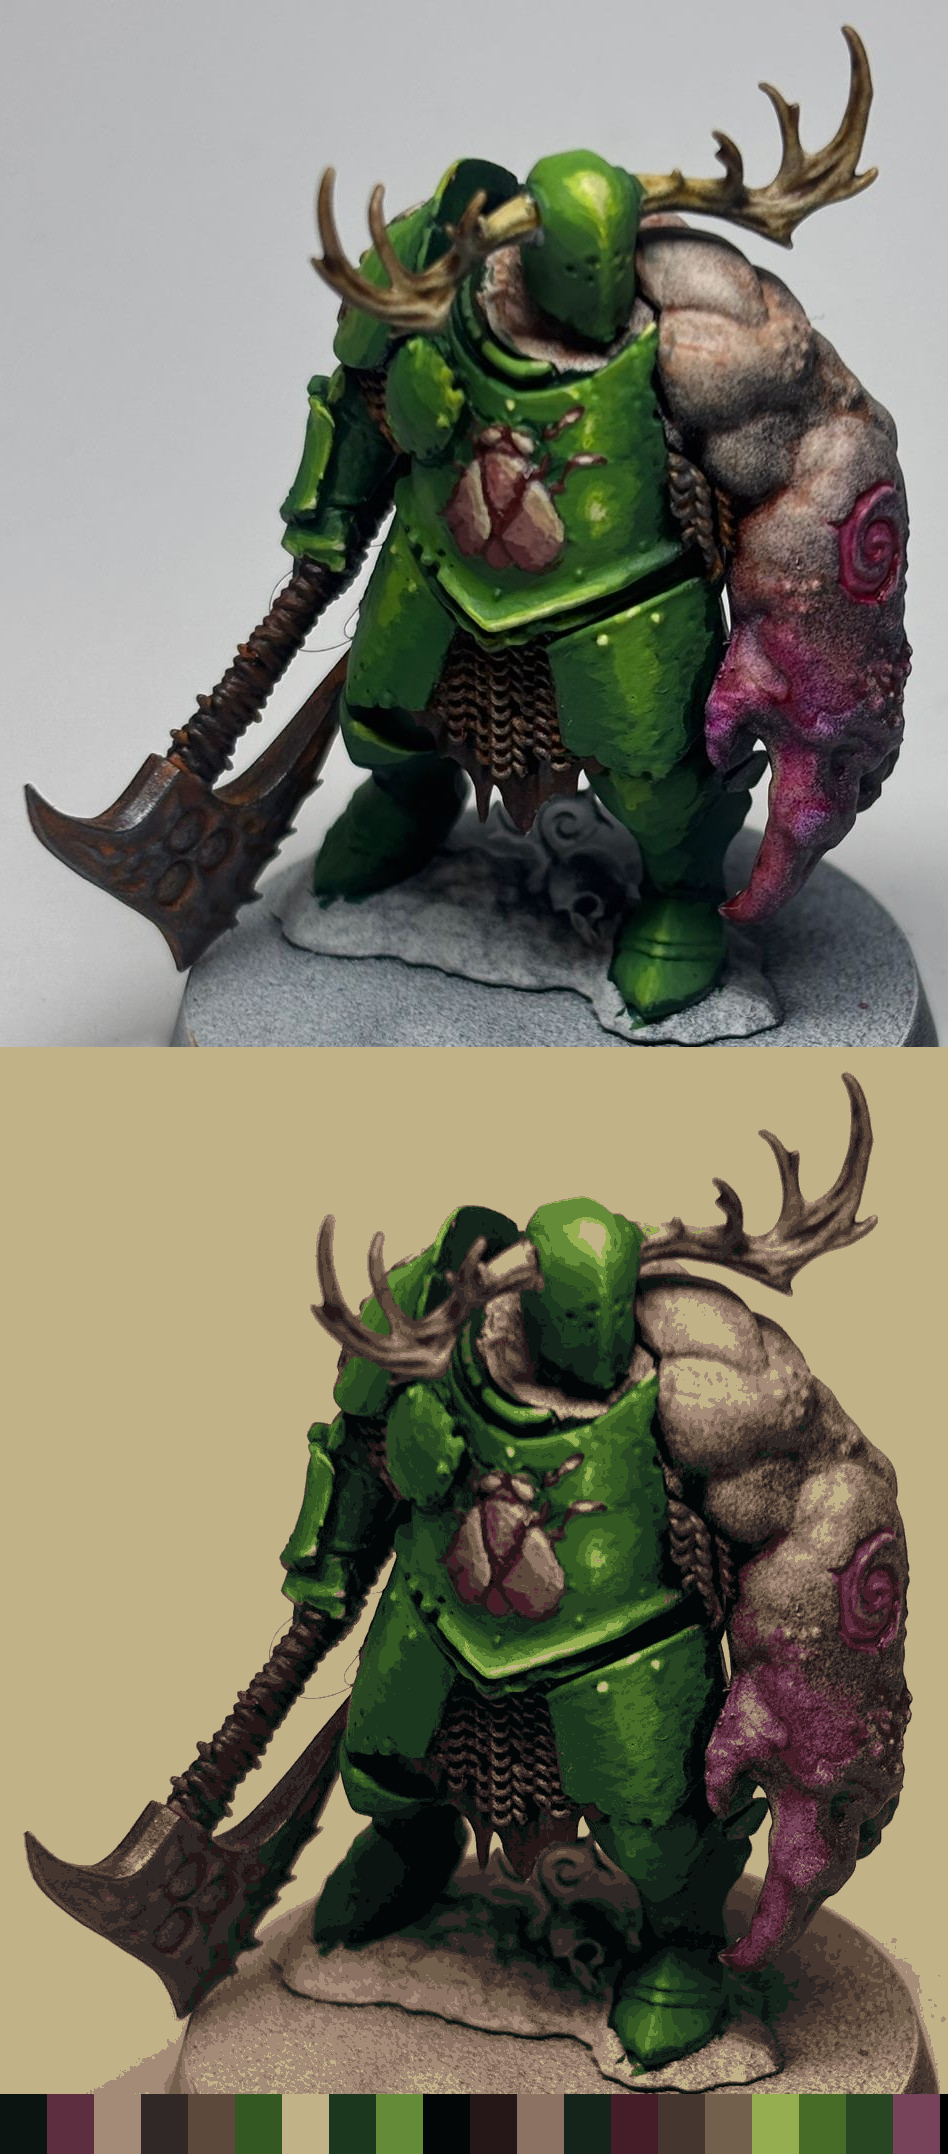
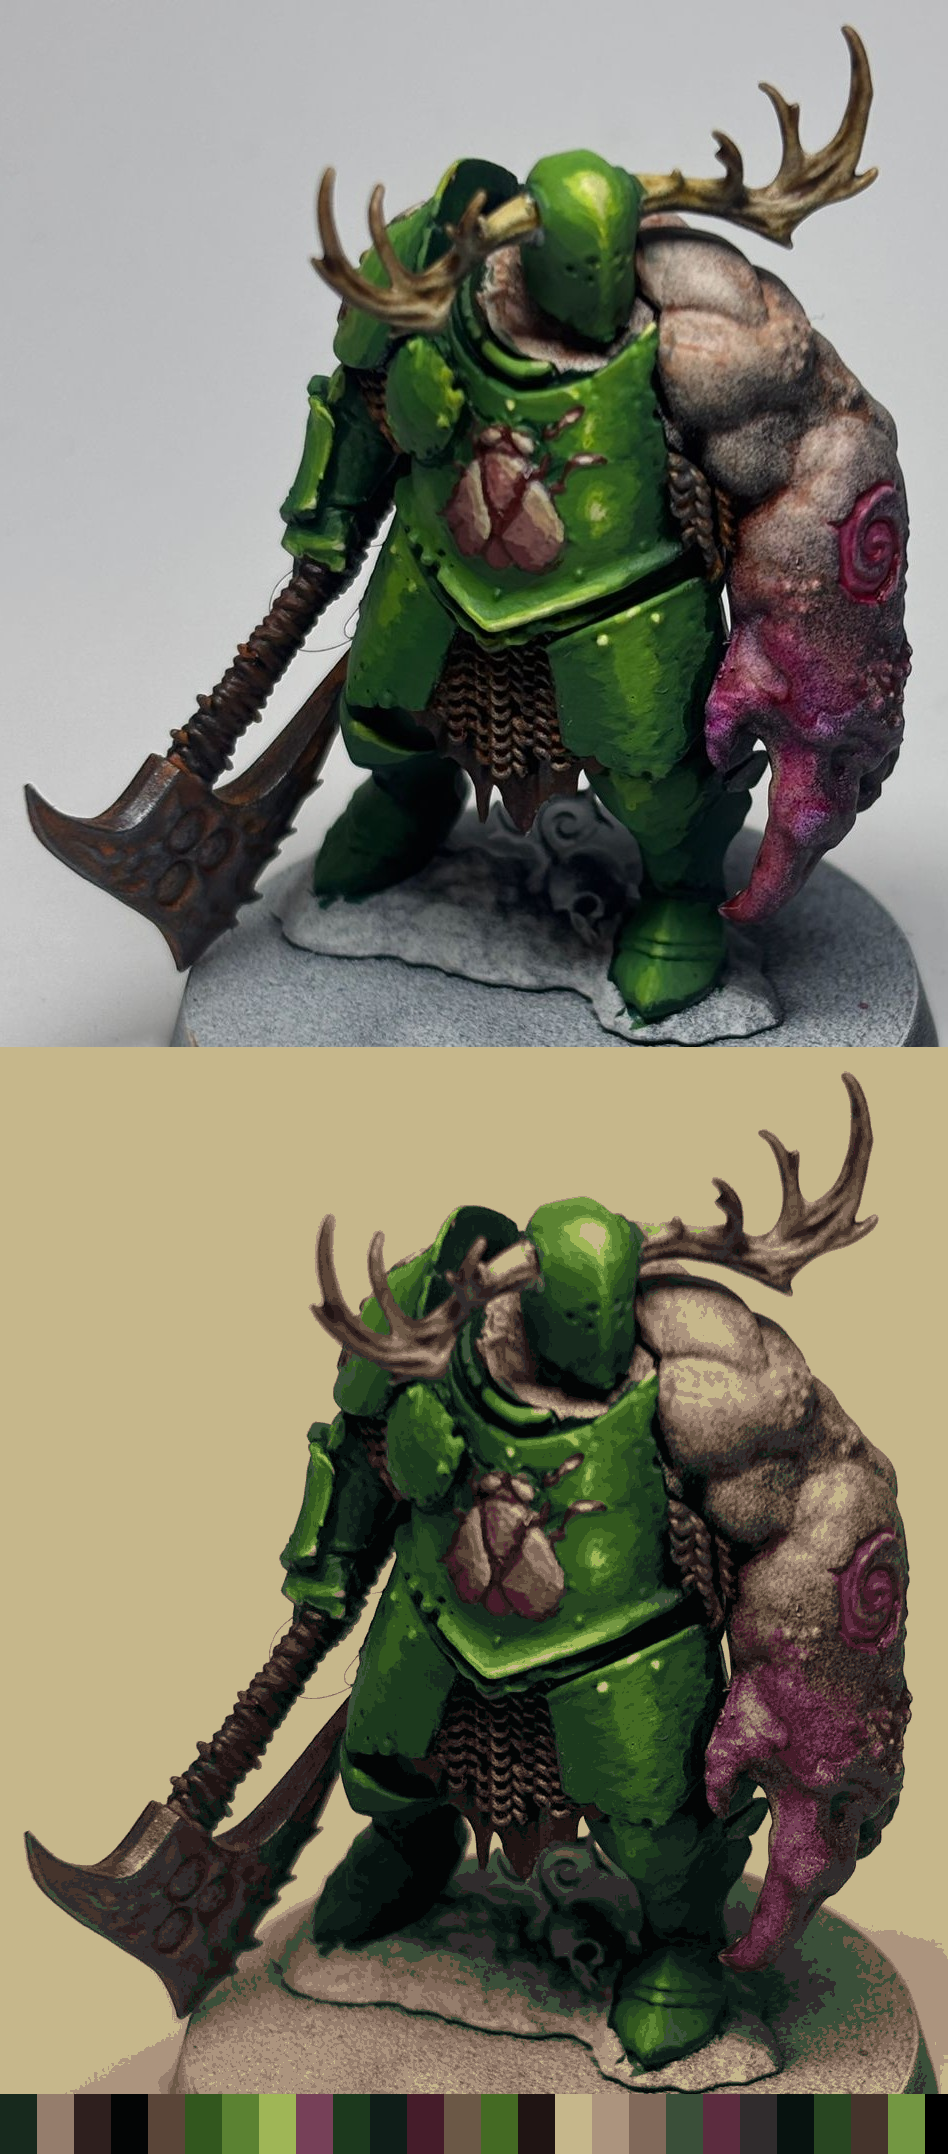
General code cleanup

diff --git a/colour_matcher.py b/colour_matcher.py
@@ -6,7 +6,6 @@
 
 import json
 import argparse
-from cv2 import kmeans
 import numpy as np
 from pathlib import Path
 from PIL import Image
@@ -14,7 +13,14 @@ from sklearn.cluster import KMeans
 
 DATASET = Path("data/paints.json")
 
-def rgb_to_lab(rgb):
+SAT_THRESHOLD = 0.2
+LUMINOSITY_MAX = 0.85
+COLORED_MIN_RATIO = 10
+KMEANS_N_INIT = 10
+KMEANS_RANDOM_STATE = 42
+
+def rgb_to_lab(rgb: np.ndarray) -> np.ndarray:
+    """Convert RGB array (0-255) to CIE LAB. Accepts any shape (..., 3)."""
     rgb = np.array(rgb, dtype=float) / 255.0
     mask = rgb > 0.04045
     rgb[mask] = ((rgb[mask] + 0.055) / 1.055) ** 2.4
@@ -29,30 +35,41 @@ def rgb_to_lab(rgb):
     b = 200 * (f[..., 1] - f[..., 2])
     return np.stack([L, a, b], axis=-1)
 
-def load_dataset():
+def load_dataset() -> tuple[list[dict], np.ndarray]:
+    """Load paints.json and return (paints list, LAB array)."""
     paints = json.loads(DATASET.read_text(encoding="utf-8"))
     rgb = np.array([[p["r"], p["g"], p["b"]] for p in paints], dtype=float)
     lab = rgb_to_lab(rgb)
     return paints, lab
 
-def extract_colors(image_path, n_colors=5, sat_threshold=0.15):
-    img = Image.open(image_path).convert("RGB")
-    pixels = np.array(img).reshape(-1, 3).astype(float)
-
+def compute_saturation_mask(pixels: np.ndarray) -> tuple[np.ndarray, np.ndarray]:
+    """Return per-pixel (saturation, cmax) arrays from a float RGB pixel array."""
     r, g, b = pixels[:, 0]/255, pixels[:, 1]/255, pixels[:, 2]/255
     cmax = np.maximum(np.maximum(r, g), b)
     cmin = np.minimum(np.minimum(r, g), b)
     with np.errstate(invalid='ignore'):
         saturation = np.where(cmax == 0, 0, (cmax - cmin) / cmax)
-    colored = pixels[(saturation > 0.2) & (cmax/255 < 0.85)]
-    source = colored if len(colored) > n_colors * 10 else pixels
+    return saturation, cmax
 
-    kmeans = KMeans(n_clusters=n_colors, n_init=10, random_state=42)
+def extract_colors(
+    image_path: str | Path,
+    n_colors: int = 5,
+    sat_threshold: float = SAT_THRESHOLD,
+) -> tuple[np.ndarray, KMeans, Image.Image]:
+    """Cluster dominant colours in image_path; returns (centers, kmeans, img)."""
+    img = Image.open(image_path).convert("RGB")
+    pixels = np.array(img).reshape(-1, 3).astype(float)
+
+    saturation, cmax = compute_saturation_mask(pixels)
+    colored = pixels[(saturation > sat_threshold) & (cmax/255 < LUMINOSITY_MAX)]
+    source = colored if len(colored) > n_colors * COLORED_MIN_RATIO else pixels
+
+    kmeans = KMeans(n_clusters=n_colors, n_init=KMEANS_N_INIT, random_state=KMEANS_RANDOM_STATE)
     kmeans.fit(source)
     return kmeans.cluster_centers_.astype(int), kmeans, img
 
-
-def save_debug(img, kmeans, colors, path="debug.png"):
+def save_debug(img: Image.Image, kmeans: KMeans, colors: np.ndarray, path: str = "debug.png") -> None:
+    """Save segmented image + colour swatches side-by-side to path."""
     pixels = np.array(img).reshape(-1, 3).astype(float)
     labels = kmeans.predict(pixels)
     segmented = colors[labels].reshape(np.array(img).shape).astype(np.uint8)
@@ -67,7 +84,14 @@ def save_debug(img, kmeans, colors, path="debug.png"):
     Image.fromarray(combined).save(path)
     print(f"Debug sauvegardé → {path}")
 
-def match_colors(dominant_colors, paints, paints_lab, top_n=3, brand=None):
+def match_colors(
+    dominant_colors: np.ndarray,
+    paints: list[dict],
+    paints_lab: np.ndarray,
+    top_n: int = 3,
+    brand: str | None = None,
+) -> list[dict]:
+    """Match each dominant colour against the paint database by ΔE; returns ranked results."""
     results = []
     filtered = [(i, p) for i, p in enumerate(paints)
                 if brand is None or p["brand"].lower() == brand.lower()]
@@ -94,7 +118,8 @@ def match_colors(dominant_colors, paints, paints_lab, top_n=3, brand=None):
 def main():
     parser = argparse.ArgumentParser(description="Warhammer Paint Finder")
     parser.add_argument("image", help="Chemin vers l'image")
-    parser.add_argument("--mode", choices=["figurine", "reference"], default="figurine")
+    parser.add_argument("--mode", choices=["figurine", "reference"], default="figurine",
+                        help="--mode reference|figurine : flag réservé, comportement différencié dans un ticket à venir (cf. WPF-05)")
     parser.add_argument("--colors", type=int, default=5, help="Nombre de couleurs à extraire")
     parser.add_argument("--top", type=int, default=3, help="Nombre de suggestions par couleur")
     parser.add_argument("--brand", help="Filtrer par marque (ex: 'Citadel Colour')")
